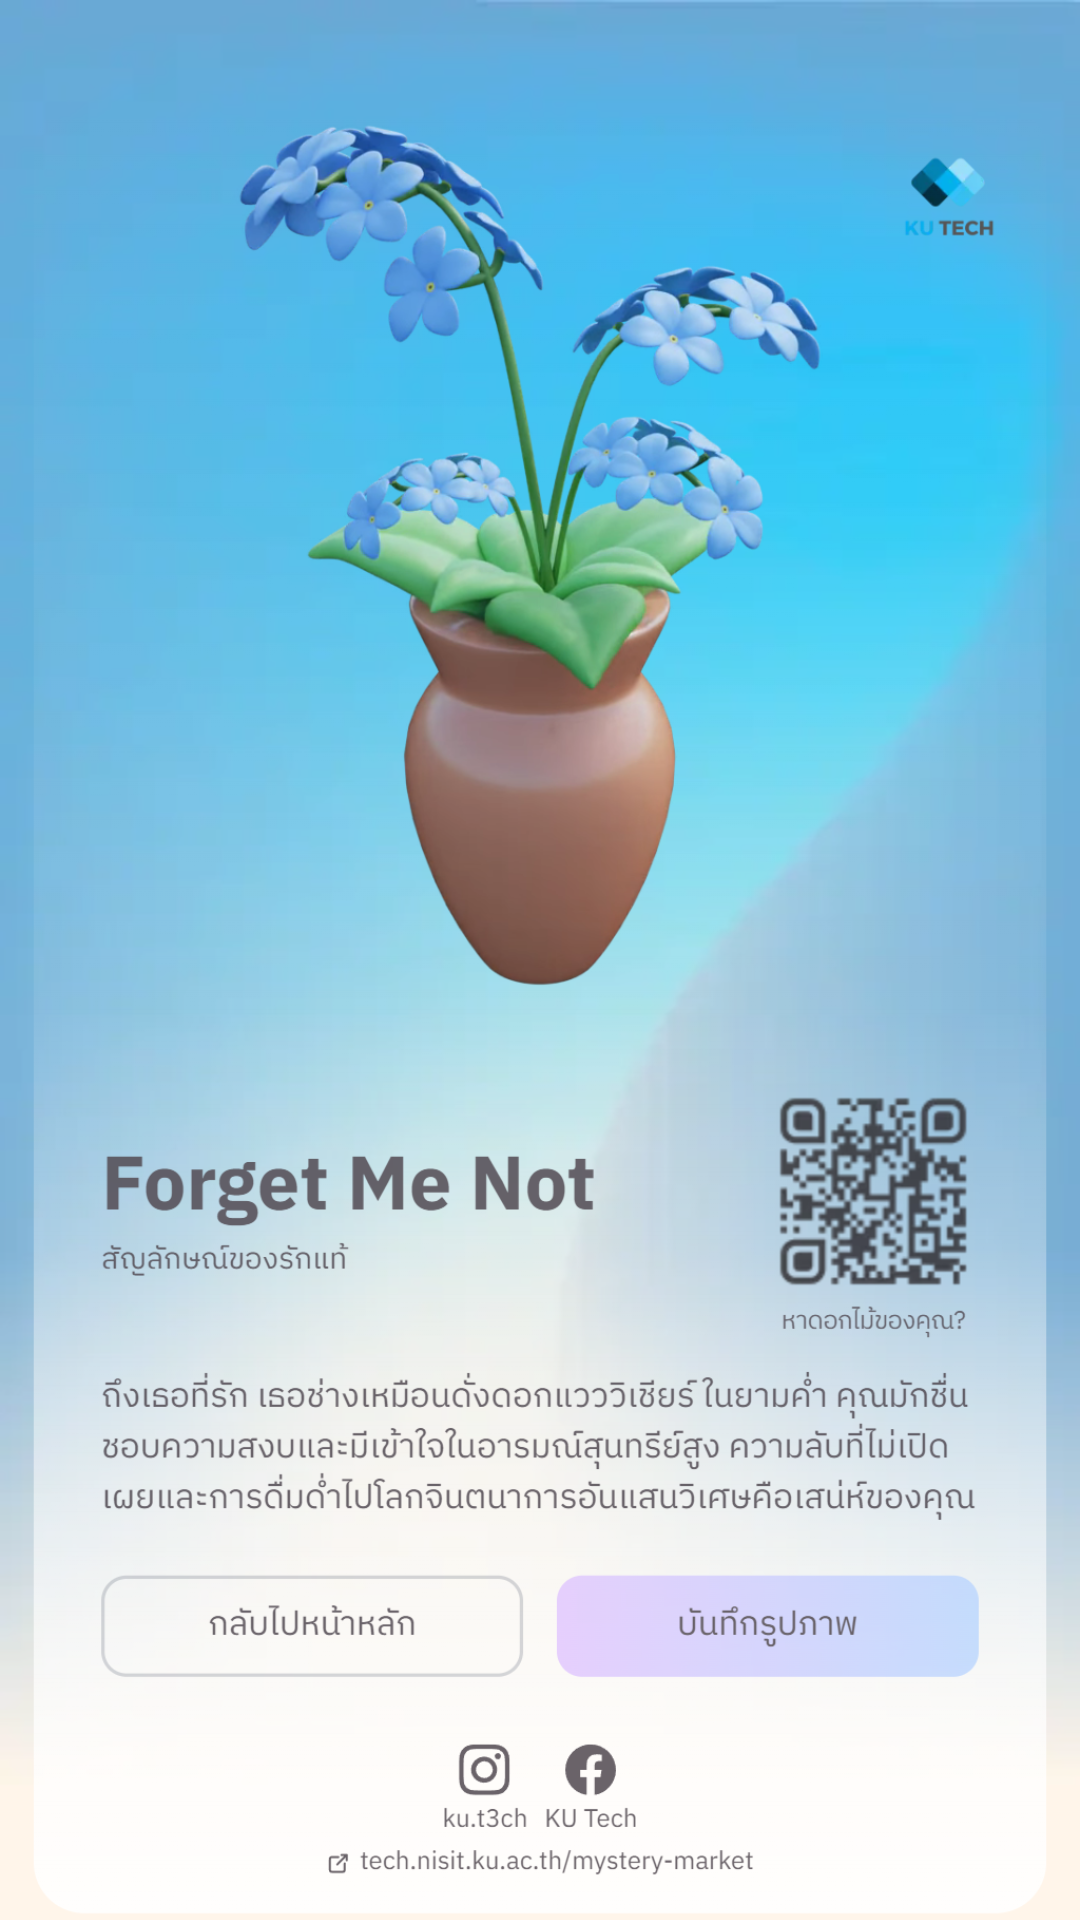
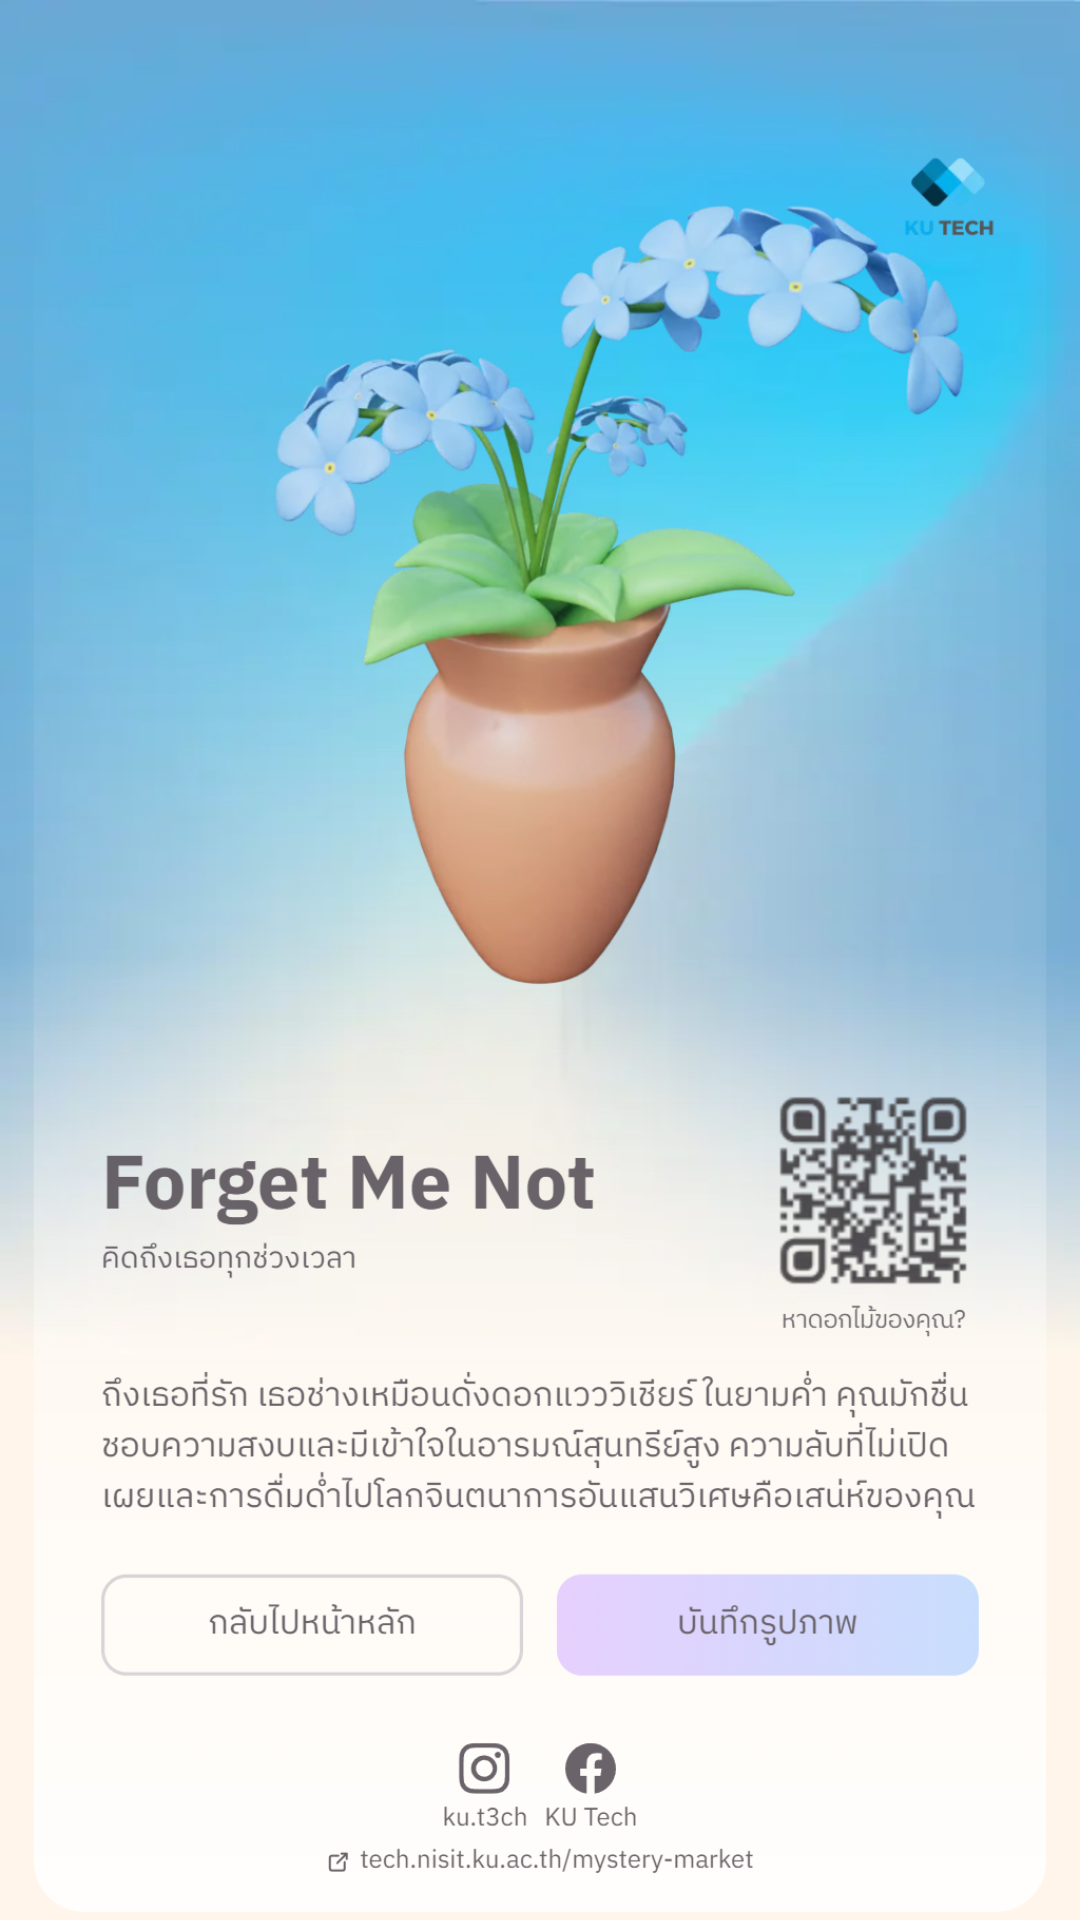
hotfix: change some text and score

diff --git a/src/utils/story.tsx b/src/utils/story.tsx
@@ -75,7 +75,7 @@ export const story: IStory[] = [
       {
         title: "ห้องที่จัดระเบียบแบ่งเป็นหมวดหมู่",
         go: 5,
-        lilly: 1,
+        lilly: 2,
         firstFlower: "lilly",
       },
       { title: "ห้องที่บรรยากาศเงียบสงบ", go: 5, forgetmenot: 1 },
@@ -168,11 +168,14 @@ export const story: IStory[] = [
         title: "ได้ ๆ ไปกัน",
         go: 13,
         isAlone: false,
+        roses: 1,
       }, // extrovert
       {
         title: "ไว้วันหลังนะ",
         go: 11,
         isAlone: true,
+        forgetmenot: 1,
+        lilly: 1,
       }, // introvert
     ],
     background: "/mystery-market/assets/background/roombgdark-resize.webp",
@@ -189,7 +192,7 @@ export const story: IStory[] = [
         go: 12,
         lavender: 1,
       },
-      { title: "นาฬิกาอิเล็กทรอนิกส์ตั้งเตือนความจำ", go: 12, lilly: 1 },
+      { title: "นาฬิกาข้อมือ", go: 12, lilly: 2 },
       { title: "กล้องถ่ายรูปสำหรับถ่ายภาพธรรมชาติ", go: 12, forgetmenot: 1 },
     ],
     background: "/mystery-market/assets/background/roombgdark-resize.webp",
@@ -213,7 +216,7 @@ export const story: IStory[] = [
         go: 14,
         lavender: 1,
       },
-      { title: "นาฬิกาอิเล็กทรอนิกส์ตั้งเตือนความจำ", go: 14, lilly: 1 },
+      { title: "นาฬิกาข้อมือ", go: 14, lilly: 2 },
       { title: "กล้องถ่ายรูปสำหรับถ่ายภาพธรรมชาติ", go: 14, forgetmenot: 1 },
     ],
     background: "/mystery-market/assets/background/roombgdark-resize.webp",
@@ -392,11 +395,16 @@ export const story: IStory[] = [
         title:
           "ขออยู่ในโลกแห่งความฝันและ<br />จินตนาการไม่มีกาลเวลา ไม่มีกฏเกณฑ์ควบคุม",
         go: 213.1,
+        sunflower: 1,
+        roses: 1,
+        lilly: 1,
       },
       {
         title:
           "ขออยู่ในโลกแห่งความเป็นจริงโดย<br />มีชีวิตที่มั่นคงและได้ทุกอย่างในสิ่งที่มุ่งหวั่ง",
         go: 213.2,
+        forgetmenot: 1,
+        lavender: 1,
       },
     ],
     // background: "/mystery-market/assets/background/boatvod1_047.webp",
@@ -532,7 +540,7 @@ export const story: IStory[] = [
   {
     scene_id: 301,
     title: "เพื่อนของคุณปฏิเสธไม่ไปดูกล่อง</br>เพราะสนใจอาหารตรงหน้ามากกว่า...",
-    choice: [{ title: "ค่อยๆเดินเข้าไปดู", go: 303, lilly: 1 }],
+    choice: [{ title: "ค่อยๆเดินเข้าไปดู", go: 303, lilly: 2 }],
     background: "/mystery-market/assets/background/boatvod1_047.webp",
   },
   {
@@ -572,7 +580,7 @@ export const story: IStory[] = [
   {
     scene_id: 306,
     story:
-      "หลังจากเหตุการณ์ทุกอย่างจบลง <br/>ถึงแม้ว่ามันจะดึกแล้ว<br/>แต่คุณยังรู้สึกไม่อยากกลับบ้าน <br/>จึงชวนเพื่อนไปนั่งพายเรือชมจันทร<br/>ซึ่งเป็นไฮไลท์ของตลาดน้ำราตรีแห่งนี้อีกครั้ง",
+      "หลังจากเหตุการณ์ทุกอย่างจบลง <br/>ถึงแม้ว่ามันจะดึกแล้ว<br/>แต่คุณยังรู้สึกไม่อยากกลับบ้าน <br/>จึงชวนเพื่อนไปนั่งพายเรือชมจันทร์<br/>ซึ่งเป็นไฮไลท์ของตลาดน้ำราตรีแห่งนี้อีกครั้ง",
     background: "/mystery-market/assets/background/boatvod1_047.webp", //เข้าสู่ช่วงบทขอพร บทที่ 2 (ฉากท้องทะเลป่ะ อะไรสักอย่างที่มันฟริ้งๆ)
     go: 311,
   },

diff --git a/src/app/flowers/[slug]/page.tsx b/src/app/flowers/[slug]/page.tsx
@@ -26,7 +26,7 @@ const Title: Record<TitleKeys, TitleInfo> = {
   sunflower: {
     name: "sunflower",
     title: "Sunflower",
-    subtitle: "รักเพียงเธอผู้เดียว",
+    subtitle: "อยากอยู่กับเธอทุกวัน",
     description:
       "ถึงเธอที่รัก เธอช่างเหมือนดั่งดอกทานตะวัน ในยามเช้าตรู่ คุณมักจะเป็นความสดใสและเข้ากับผู้อื่นได้ง่าย ความตื่นเต้นสนุกสนานและการมองโลกในแง่ดี อันไร้ขีดจำกัดคือเสน่ห์ของคุณ",
   },
@@ -40,14 +40,14 @@ const Title: Record<TitleKeys, TitleInfo> = {
   rose: {
     name: "rose",
     title: "Rose",
-    subtitle: "ฉันยอมรับเธอได้ทุกอย่าง",
+    subtitle: "ยอมรับเธอได้ทุกอย่าง",
     description:
       "ถึงเธอที่รัก เธอช่างเหมือนดั่งดอกกุหลาบ ในยามสาย คุณมักจะเป็นคนที่เข้าใจและพร้อมสนับสนุนทุกคนเสมอ ความสวยงามอันมีเสน่ห์และความอ่อนน้อมถ่อมตน อันไร้ที่ติคือเสน่ห์ของคุณ",
   },
   forgetmenot: {
     name: "forgetmenot",
     title: "Forget Me Not",
-    subtitle: "สัญลักษณ์ของรักแท้",
+    subtitle: "คิดถึงเธอทุกช่วงเวลา",
     description:
       "ถึงเธอที่รัก เธอช่างเหมือนดั่งดอกแวววิเชียร์ ในยามค่ำ คุณมักชื่นชอบความสงบและมีเข้าใจในอารมณ์สุนทรีย์สูง ความลับที่ไม่เปิดเผยและการดื่มด่ำไปโลกจินตนาการอันแสนวิเศษคือเสน่ห์ของคุณ",
   },

diff --git a/src/components/storys/TheFlower.tsx b/src/components/storys/TheFlower.tsx
@@ -20,8 +20,8 @@ export default function TheFlower() {
     forgetmenot: number
   ): string {
     const flowerCounts = [
-      { name: "sunflower", count: sunflower },
       { name: "rose", count: rose },
+      { name: "sunflower", count: sunflower },
       { name: "lavender", count: lavender },
       { name: "lily", count: lily },
       { name: "forgetmenot", count: forgetmenot },
@@ -31,14 +31,6 @@ export default function TheFlower() {
 
     return flowerCounts.find((flower) => flower.count === maxCount)?.name || "";
   }
-
-  const highestFlowerCount = getHighestFlower(
-    sunflower,
-    roses,
-    lavender,
-    lilly,
-    forgetmenot
-  );
 
   const router = useRouter();
 
